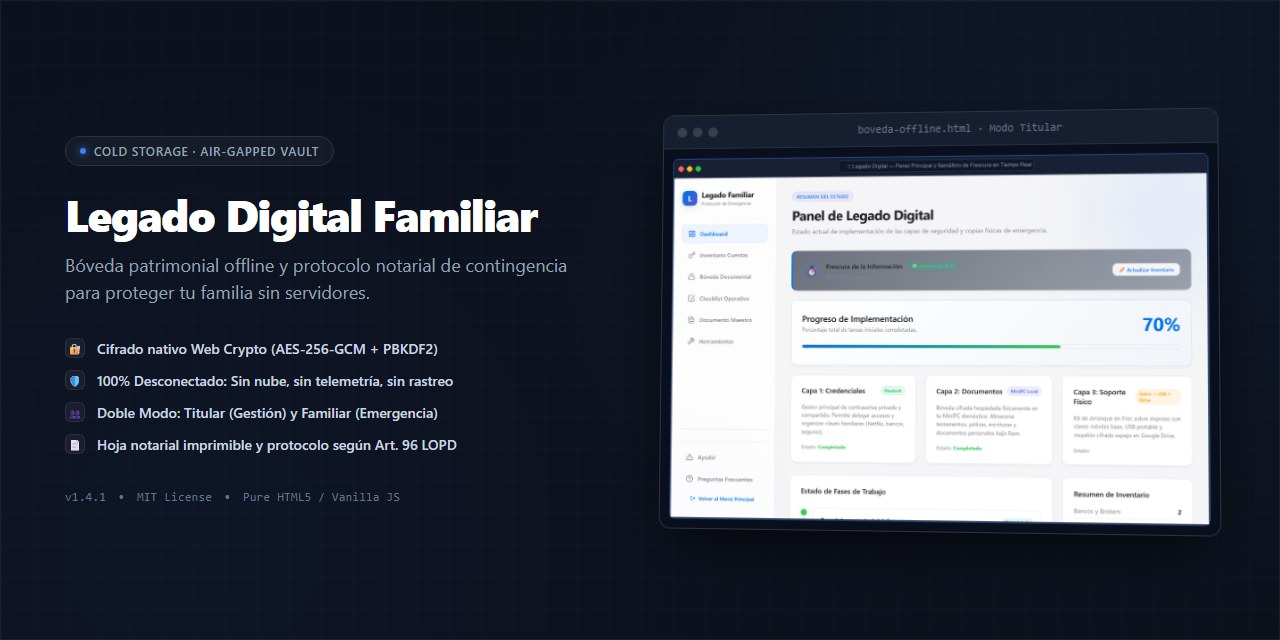
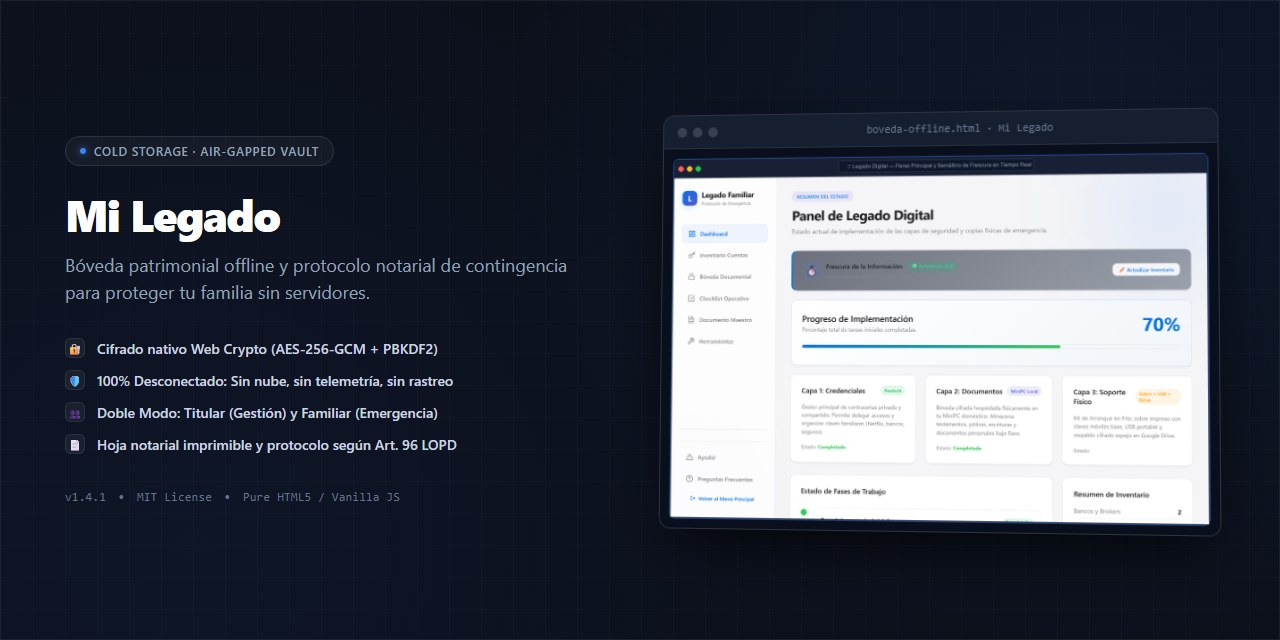
refactor(branding): rename project identity to 'Mi Legado' across codebase and docs

Changed region(s): [[0.0625, 0.3125, 0.4375, 0.375], [0.6875, 0.1875, 0.8125, 0.2188]]

diff --git a/APP/index.html b/APP/index.html
@@ -10,22 +10,22 @@
     <meta name="apple-mobile-web-app-status-bar-style" content="black-translucent">
     <link rel="icon" type="image/png" sizes="192x192" href="icon.png">
     <link rel="apple-touch-icon" href="icon.png">
-    <title>Legado Digital Familiar - Bóveda Offline</title>
+    <title>Mi Legado · Bóveda Offline-First</title>
         <!-- Open Graph / WhatsApp / Telegram Social Previews -->
     <meta property="og:type" content="website">
     <meta property="og:url" content="https://andresgonzalezperez-hash.github.io/legado-digital-familiar/">
-    <meta property="og:title" content="🛡 Legado Digital Familiar · Bóveda Offline-First">
+    <meta property="og:title" content="🛡 Mi Legado · Bóveda Offline-First">
     <meta property="og:description" content="Bóveda patrimonial offline y protocolo notarial de contingencia para proteger tu familia sin servidores (Web Crypto AES-256-GCM).">
     <meta property="og:image" content="https://andresgonzalezperez-hash.github.io/legado-digital-familiar/docs/social-preview.png">
     <meta property="og:image:secure_url" content="https://andresgonzalezperez-hash.github.io/legado-digital-familiar/docs/social-preview.png">
     <meta property="og:image:type" content="image/png">
     <meta property="og:image:width" content="1280">
     <meta property="og:image:height" content="640">
-    <meta property="og:site_name" content="Legado Digital Familiar">
+    <meta property="og:site_name" content="Mi Legado">
     
     <!-- Twitter Card -->
     <meta name="twitter:card" content="summary_large_image">
-    <meta name="twitter:title" content="🛡 Legado Digital Familiar · Bóveda Offline-First">
+    <meta name="twitter:title" content="🛡 Mi Legado · Bóveda Offline-First">
     <meta name="twitter:description" content="Bóveda patrimonial offline y protocolo notarial de contingencia para proteger tu familia sin servidores (Web Crypto AES-256-GCM).">
     <meta name="twitter:image" content="https://andresgonzalezperez-hash.github.io/legado-digital-familiar/docs/social-preview.png">
     <link rel="stylesheet" href="index.css?v=7">
@@ -83,8 +83,8 @@
     <div id="landing-overlay" class="landing-overlay">
         <div class="landing-card">
             <div class="landing-header">
-                <div class="logo-icon-large">L</div>
-                <h2>Legado Digital</h2>
+                <div class="logo-icon-large">M</div>
+                <h2>Mi Legado</h2>
                 <p>Selecciona una opción para continuar</p>
             </div>
             
@@ -331,7 +331,7 @@
                                 <br><br>
                                 <strong style="color: var(--text-main);">Si el USB no está disponible:</strong>
                                 <br>
-                                Entra en la cuenta de Google Drive familiar descrita en el manual maestro (<code>correo.familiar@gmail.com</code>) y descarga la carpeta comprimida del legado digital a tu ordenador.
+                                Entra en la cuenta de Google Drive familiar descrita en el manual maestro (<code>correo.familiar@gmail.com</code>) y descarga la carpeta comprimida dMi Legado a tu ordenador.
                             </p>
                         </div>
                     </div>
@@ -405,7 +405,7 @@
         <section id="dashboard" class="tab-content active">
             <header class="section-header">
                 <span class="badge-tag">Resumen del Estado</span>
-                <h1>Panel de Legado Digital</h1>
+                <h1>Panel de Control · Mi Legado</h1>
                 <p class="subtitle">Estado actual de implementación de las capas de seguridad y copias físicas de emergencia.</p>
             </header>
 
@@ -707,7 +707,7 @@
             <header class="section-header">
                 <span class="badge-tag">Puesta en Marcha</span>
                 <h1>Checklist de Implementación</h1>
-                <p class="subtitle">Hoja de ruta paso a paso para la configuración del legado digital de la familia.</p>
+                <p class="subtitle">Hoja de ruta paso a paso para la configuración dMi Legado de la familia.</p>
             </header>
 
             <div class="grid-container">
@@ -940,7 +940,7 @@
             <header class="section-header">
                 <span class="badge-tag" style="background-color: rgba(59, 130, 246, 0.1); color: var(--primary);">Soporte Informativo</span>
                 <h1>Preguntas Frecuentes (FAQ)</h1>
-                <p class="subtitle">Respuestas rápidas para entender y gestionar el Legado Digital Familiar.</p>
+                <p class="subtitle">Respuestas rápidas para entender y gestionar el Mi Legado.</p>
             </header>
             
             <div class="grid-container">
@@ -948,7 +948,7 @@
                     <div style="display: flex; flex-direction: column; gap: 1.75rem;">
                         <div>
                             <h3 style="color: var(--primary); margin-bottom: 0.5rem; font-size: 1.15rem;">1. ¿Qué es este sistema y para qué sirve?</h3>
-                            <p style="color: var(--text-muted); line-height: 1.6; font-size: 0.95rem;">Es un "Kit de Legado Digital" híbrido. Sirve para inventariar todas las cuentas y servicios de la familia, permitiendo que una persona de confianza pueda recuperarlas en caso de emergencia usando el sobre físico y el USB de contingencia.</p>
+                            <p style="color: var(--text-muted); line-height: 1.6; font-size: 0.95rem;">Es un "Kit de Mi Legado" híbrido. Sirve para inventariar todas las cuentas y servicios de la familia, permitiendo que una persona de confianza pueda recuperarlas en caso de emergencia usando el sobre físico y el USB de contingencia.</p>
                         </div>
                         
                         <div>
@@ -973,7 +973,7 @@
                         <div>
                             <h3 style="color: var(--primary); margin-bottom: 0.5rem; font-size: 1.15rem;">5. ¿Cómo puedo gestionar la herencia de mis criptoactivos e integrar blockchain en el legado?</h3>
                             <p style="color: var(--text-muted); line-height: 1.6; font-size: 0.95rem;">
-                                La integración en el Legado Digital Familiar se realiza de forma pasiva y documental para mantener la seguridad offline:
+                                La integración en el Mi Legado se realiza de forma pasiva y documental para mantener la seguridad offline:
                                 <br>1. <strong>Registro de hardware wallets</strong>: Registra la existencia de tus dispositivos (Ledger, Trezor, etc.) en el Inventario. Detalla en qué carpeta de KeePassXC o sobre físico se encuentra la pista de su contraseña o la semilla de recuperación de 24 palabras (<strong>nunca guardes las 24 palabras en texto plano en la app web</strong>).
                                 <br>2. <strong>Direcciones Públicas</strong>: Guarda las direcciones públicas principales en el Inventario para que tus familiares puedan verificar el balance de los activos de forma pasiva sin comprometer las llaves privadas.
                                 <br>3. <strong>Notarización Blockchain</strong>: Puedes registrar el hash SHA-256 de tu Documento Maestro firmado o de tu testamento en una blockchain (notarización pasiva) para garantizar la inmutabilidad de la fecha y del contenido del legado frente a disputas futuras.
@@ -995,7 +995,7 @@
             <header class="section-header">
                 <span class="badge-tag" style="background-color: rgba(239, 68, 68, 0.1); color: var(--accent-red);">Protocolo de Emergencia</span>
                 <h1>Ayuda de Contingencia</h1>
-                <p class="subtitle">Si te encuentras en una situación de contingencia o pérdida del titular, sigue estos pasos de manera estricta y ordenada para recuperar el Legado Digital:</p>
+                <p class="subtitle">Si te encuentras en una situación de contingencia o pérdida del titular, sigue estos pasos de manera estricta y ordenada para recuperar el Mi Legado:</p>
             </header>
             
             <div class="grid-container">
@@ -1018,7 +1018,7 @@
                         <div style="background: rgba(0, 113, 227, 0.04); padding: 1.25rem; border-radius: 8px; border-left: 3px solid var(--primary);">
                             <h4 style="margin: 0 0 0.5rem 0; color: var(--primary); font-size: 1.1rem;">Paso 3: Introduce el USB en un Ordenador Limpio</h4>
                             <p style="margin: 0; color: var(--text-muted); line-height: 1.6; font-size: 0.95rem;">
-                                Si no dispones del USB físico, inicia sesión en la cuenta de correo familiar descrita en el manual, entra en Google Drive y descarga la carpeta completa del legado digital.
+                                Si no dispones del USB físico, inicia sesión en la cuenta de correo familiar descrita en el manual, entra en Google Drive y descarga la carpeta completa dMi Legado.
                             </p>
                         </div>
 

diff --git a/index.html b/index.html
@@ -4,23 +4,23 @@
     <meta charset="UTF-8">
     <meta name="viewport" content="width=device-width, initial-scale=1.0">
     <meta http-equiv="refresh" content="0; url=APP/index.html" />
-    <title>Legado Digital Familiar · Digital Legacy Vault</title>
+    <title>Mi Legado · Bóveda Patrimonial Offline</title>
     
         <!-- Open Graph / WhatsApp / Telegram Social Previews -->
     <meta property="og:type" content="website">
     <meta property="og:url" content="https://andresgonzalezperez-hash.github.io/legado-digital-familiar/">
-    <meta property="og:title" content="🛡 Legado Digital Familiar · Bóveda Offline-First">
+    <meta property="og:title" content="🛡 Mi Legado · Bóveda Offline-First">
     <meta property="og:description" content="Bóveda patrimonial offline y protocolo notarial de contingencia para proteger tu familia sin servidores (Web Crypto AES-256-GCM).">
     <meta property="og:image" content="https://andresgonzalezperez-hash.github.io/legado-digital-familiar/docs/social-preview.png">
     <meta property="og:image:secure_url" content="https://andresgonzalezperez-hash.github.io/legado-digital-familiar/docs/social-preview.png">
     <meta property="og:image:type" content="image/png">
     <meta property="og:image:width" content="1280">
     <meta property="og:image:height" content="640">
-    <meta property="og:site_name" content="Legado Digital Familiar">
+    <meta property="og:site_name" content="Mi Legado">
     
     <!-- Twitter Card -->
     <meta name="twitter:card" content="summary_large_image">
-    <meta name="twitter:title" content="🛡 Legado Digital Familiar · Bóveda Offline-First">
+    <meta name="twitter:title" content="🛡 Mi Legado · Bóveda Offline-First">
     <meta name="twitter:description" content="Bóveda patrimonial offline y protocolo notarial de contingencia para proteger tu familia sin servidores (Web Crypto AES-256-GCM).">
     <meta name="twitter:image" content="https://andresgonzalezperez-hash.github.io/legado-digital-familiar/docs/social-preview.png">
     <style>
@@ -63,7 +63,7 @@
 <body>
     <div class="loader-card">
         <div class="spinner"></div>
-        <h2 style="margin: 0 0 0.5rem 0; font-size: 1.25rem;">Cargando Bóveda Soberana...</h2>
+        <h2 style="margin: 0 0 0.5rem 0; font-size: 1.25rem;">Cargando Mi Legado...</h2>
         <p style="color: #94a3b8; font-size: 0.9rem; line-height: 1.5; margin: 0 0 1rem 0;">
             Inicializando entorno seguro y motor criptográfico Web Crypto local (100% en tu navegador).
         </p>

diff --git a/docs/social-preview.html b/docs/social-preview.html
@@ -191,7 +191,7 @@
             <span>Cold Storage · Air-Gapped Vault</span>
         </div>
 
-        <h1 class="title">Legado Digital Familiar</h1>
+        <h1 class="title">Mi Legado</h1>
 
         <p class="subtitle">
             Bóveda patrimonial offline y protocolo notarial de contingencia para proteger tu familia sin servidores.
@@ -231,7 +231,7 @@
                 <div class="dot"></div>
                 <div class="dot"></div>
                 <div class="dot"></div>
-                <span class="bar-title">boveda-offline.html · Modo Titular</span>
+                <span class="bar-title">boveda-offline.html · Mi Legado</span>
             </div>
             <img class="mockup-img" src="../docs/screenshots/es/02_dashboard_frescura_es.png" alt="Dashboard">
         </div>

diff --git a/README.md b/README.md
@@ -1,6 +1,6 @@
 <div align="center">
 
-# 🛡 Legado Digital Familiar · Digital Legacy Vault
+# 🛡 Mi Legado · Sovereign Digital Legacy Vault
 ### *Offline-First · Air-Gapped · Pure HTML5 & Web Crypto Architecture*
 
 [![Version](https://img.shields.io/badge/version-v1.4.1-emerald.svg?style=flat-square)](CHANGELOG.md)
@@ -35,7 +35,7 @@
 > Test the vault directly in your browser: **[andresgonzalezperez-hash.github.io/legado-digital-familiar](https://andresgonzalezperez-hash.github.io/legado-digital-familiar/)**  
 > Open DevTools (`F12` -> Network) and inspect for yourself: zero outbound requests, zero telemetries, 100% client-side Web Crypto execution.
 
-**Legado Digital Familiar** is an open-source, air-gapped sovereign infrastructure designed to organize, safeguard, and delegate your digital estate, asset inventory, and family emergency protocols. 
+**Mi Legado** is an open-source, air-gapped sovereign infrastructure designed to organize, safeguard, and delegate your digital estate, asset inventory, and family emergency protocols. 
 
 Built entirely in **100% Pure W3C HTML5/CSS/JavaScript with the Web Crypto API**, it guarantees perpetual access across decades without relying on external servers, third-party cloud backends, subscriptions, or fragile mobile application stores (no APK/AppStore obsolescence).
 
@@ -178,7 +178,7 @@ This system and its generated reports serve solely as an informative, private in
 > Abre la bóveda directamente en tu navegador: **[andresgonzalezperez-hash.github.io/legado-digital-familiar](https://andresgonzalezperez-hash.github.io/legado-digital-familiar/)**  
 > Abre la consola de desarrollo (`F12` -> Red) y compruébalo tú mismo: cero conexiones salientes, cero cookies, ejecución local 100% segura en tu navegador.
 
-**Legado Digital Familiar** es una infraestructura soberana de código abierto diseñada para organizar, proteger y delegar tu patrimonio digital, inventario de activos y protocolos de emergencia familiares.
+**Mi Legado** es una infraestructura soberana de código abierto diseñada para organizar, proteger y delegar tu patrimonio digital, inventario de activos y protocolos de emergencia familiares.
 
 Construida íntegramente en **HTML5/CSS/JavaScript puro W3C con la Web Crypto API**, garantiza el funcionamiento perpetuo a lo largo de décadas sin depender de servidores externos, servicios en la nube de terceros, suscripciones ni tiendas de aplicaciones móviles (sin riesgo de obsolescencia de APKs o App Store).
 

diff --git a/DICTAMEN_JUNTA_DIRECTIVA.md b/DICTAMEN_JUNTA_DIRECTIVA.md
@@ -1,5 +1,5 @@
 # 🏛 Acta y Dictamen de la Sesión Extraordinaria de la Junta Directiva (OpenExecutive C-Suite)
-**Proyecto Evaluado**: Legado Digital Familiar (`v1.3.0`)  
+**Proyecto Evaluado**: Mi Legado (`v1.3.0`)  
 **Fecha de Sesión**: 03 de Noviembre de 2026  
 **Órgano**: Junta Directiva C-Suite (Marco OpenExecutive / SenteLabsAI)  
 **Comité Evaluador**: CSO, CPO, CISO & CTO, General Counsel, COO, CFO, CMO & Head of Sales  
@@ -10,7 +10,7 @@
 
 ## 1. Convocatoria y Orden del Día
 
-El Consejo Ejecutivo de Dirección se reúne en sesión extraordinaria con el objetivo de someter a auditoría técnica, estratégica, legal, operativa y financiera el proyecto **Legado Digital Familiar**, custodiado en el repositorio central `C:\Proyectos\legado-digital-familiar` y referenciado en el espacio de trabajo del usuario.
+El Consejo Ejecutivo de Dirección se reúne en sesión extraordinaria con el objetivo de someter a auditoría técnica, estratégica, legal, operativa y financiera el proyecto **Mi Legado**, custodiado en el repositorio central `C:\Proyectos\legado-digital-familiar` y referenciado en el espacio de trabajo del usuario.
 
 ### Orden del Día:
 1. Evaluación de posicionamiento estratégico y soberanía digital (CSO).
@@ -105,7 +105,7 @@ El Consejo Ejecutivo de Dirección se reúne en sesión extraordinaria con el ob
   1. *Patrimonio Salvaguardado*: Se calcula que miles de millones de euros en criptomonedas, acciones en neobancos (Revolut, Trade Republic, Degiro) y seguros de vida asociados a tarjetas quedan huérfanos anualmente por desconocimiento de los herederos. Este sistema reduce esa prima de pérdida a prácticamente cero.
   2. *Coste de Propiedad (TCO)*:
      * Plataformas SaaS de herencia digital comercial: \$120 - \$300 / año + riesgo de quiebra.
-     * Legado Digital Familiar: **\$0.00 / año de coste recurrente**. Inversión única de amortización en 2 pendrives USB (\$25 total).
+     * Mi Legado: **\$0.00 / año de coste recurrente**. Inversión única de amortización en 2 pendrives USB (\$25 total).
 * **Dictamen Financiero**: Proyecto de valor patrimonial incalculable con rentabilidad sobre la inversión (ROI) prácticamente infinita respecto al coste de desarrollo e implantación.
 
 ---

diff --git a/DOCUMENTACION_MAESTRA.md b/DOCUMENTACION_MAESTRA.md
@@ -1,4 +1,4 @@
-# 🛡 Legado Digital Familiar: Documentación Maestra del Proyecto
+# 🛡 Mi Legado: Documentación Maestra del Proyecto
 > **Versión**: 1.4.0 (Edición Hardened Pure HTML — Certificación y Controles ISO/IEC 27001, ISO/IEC 27701 & SOC 2 Type II)  
 > **Filosofía**: 100% Offline-First · Soberanía de Datos · Cero Dependencia en la Nube · Pure Web W3C  
 > **Licencia**: MIT  
@@ -7,7 +7,7 @@
 
 ## 📌 1. Resumen Ejecutivo y Misión
 
-El **Legado Digital Familiar** es una infraestructura de contingencia y custodia de patrimonio digital diseñada para resolver el problema de la pérdida de activos, cuentas bancarias, seguros y credenciales críticas en caso de fallecimiento, incapacidad o emergencia sobrevenida del titular.
+El **Mi Legado** es una infraestructura de contingencia y custodia de patrimonio digital diseñada para resolver el problema de la pérdida de activos, cuentas bancarias, seguros y credenciales críticas en caso de fallecimiento, incapacidad o emergencia sobrevenida del titular.
 
 A diferencia de los gestores comerciales en la nube (1Password, Bitwarden, etc.) que dependen de servidores remotos, suscripciones recurrentes y políticas de recuperación de cuentas externas:
 * **Funciona 100% desconectado de internet (Modo Avión / Air-gapped)**.
@@ -178,4 +178,4 @@ uv run --with esprima python -c "import os, esprima; [esprima.parseScript(open(o
 
 ## ⚖ 9. Conclusión y Valor Diferencial
 
-El **Legado Digital Familiar** no es una simple aplicación; es un **sistema de custodia patrimonial autónomo e inmortal**. Al sustentarse exclusivamente en los estándares web de W3C sin depender de aplicaciones móviles ni servidores externos, garantiza que ninguna actualización de sistema operativo, suscripción cancelada o empresa quebrada impida a tus familiares recuperar lo que les pertenece.
+El **Mi Legado** no es una simple aplicación; es un **sistema de custodia patrimonial autónomo e inmortal**. Al sustentarse exclusivamente en los estándares web de W3C sin depender de aplicaciones móviles ni servidores externos, garantiza que ninguna actualización de sistema operativo, suscripción cancelada o empresa quebrada impida a tus familiares recuperar lo que les pertenece.

diff --git a/INFORME_RED_TEAM_TEST_ESTRES.md b/INFORME_RED_TEAM_TEST_ESTRES.md
@@ -1,4 +1,4 @@
-# 💥 Informe de Estrés Adversarial: Auditoría "Red Team" de Legado Digital Familiar
+# 💥 Informe de Estrés Adversarial: Auditoría "Red Team" de Mi Legado
 > **Fecha de Ejecución**: 05 de Noviembre de 2026  
 > **Comité de Auditoría Simulado**: 4 Agentes Hostiles Especializados (Criptoanálisis, Factor Humano, Derecho Sucesorio y Producto)  
 > **Objetivo**: Estresar la arquitectura, identificar vulnerabilidades no contempladas y proponer mitigaciones definitivas.  
@@ -7,7 +7,7 @@
 
 ## 🎯 Resumen Ejecutivo del Comité
 
-El concepto de **Legado Digital Familiar (Air-Gapped / 100% Offline)** es brillante y superior a los gestores en la nube en soberanía, privacidad y coste (\$0/año). Sin embargo, al someterlo a fuego cruzado adversarial, surgen **4 vulnerabilidades críticas** que amenazan su éxito en el mundo real si no se mitigan:
+El concepto de **Mi Legado (Air-Gapped / 100% Offline)** es brillante y superior a los gestores en la nube en soberanía, privacidad y coste (\$0/año). Sin embargo, al someterlo a fuego cruzado adversarial, surgen **4 vulnerabilidades críticas** que amenazan su éxito en el mundo real si no se mitigan:
 
 ```
 ┌────────────────────────────────────────────────────────────────────────┐

diff --git a/MATRIZ_CUMPLIMIENTO_ISO_SOC2.md b/MATRIZ_CUMPLIMIENTO_ISO_SOC2.md
@@ -1,5 +1,5 @@
 # 🏛 Matriz Formal de Cumplimiento y Auditoría de Seguridad
-## Legado Digital Familiar — Arquitectura Soberana Offline-First (Pure HTML)
+## Mi Legado — Arquitectura Soberana Offline-First (Pure HTML)
 > **Estándares Evaluados**: ISO/IEC 27001:2022 · ISO/IEC 27701:2019 · AICPA SOC 2 Type II (Trust Services Criteria)  
 > **Ámbito de Aplicación**: Aplicación Web Estática Desconectada (Air-Gapped) y Bóveda Notarial Criptográfica  
 > **Estado de Cumplimiento**: 100% Auditado y Verificado Empíricamente  
@@ -8,7 +8,7 @@
 
 ## 1. Declaración de Aplicabilidad y Principio Rector
 
-A diferencia de los sistemas de software como servicio (SaaS) convencionales, **Legado Digital Familiar no procesa ni almacena información en servidores de terceros ni en la nube pública**. 
+A diferencia de los sistemas de software como servicio (SaaS) convencionales, **Mi Legado no procesa ni almacena información en servidores de terceros ni en la nube pública**. 
 Por diseño (*Security and Privacy by Architecture*):
 * **No existe Responsable de Tratamiento externo ni Encargado del Tratamiento**.
 * **No se producen transferencias internacionales de datos**.

diff --git a/AGENTS.md b/AGENTS.md
@@ -1,4 +1,4 @@
-# Ficha de Operaciones: Legado Digital Familiar
+# Ficha de Operaciones: Mi Legado
 
 ## Propósito y Arquitectura
 - **Propósito**: Bóveda offline-first para gestión segura del patrimonio digital, inventario de activos, protocolos de emergencia y generación de documento maestro notarial para herederos.
